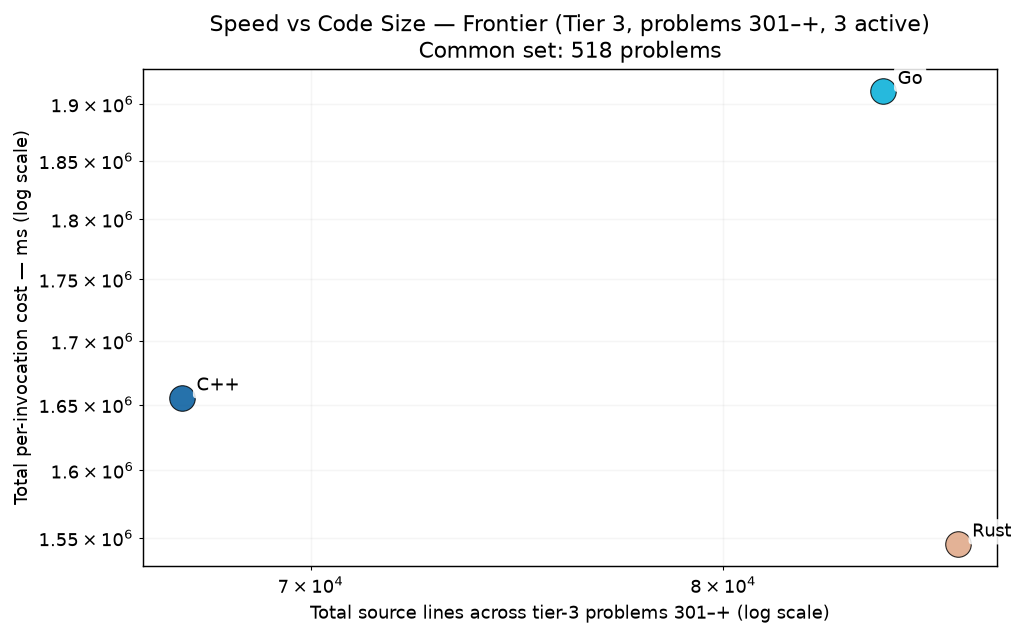
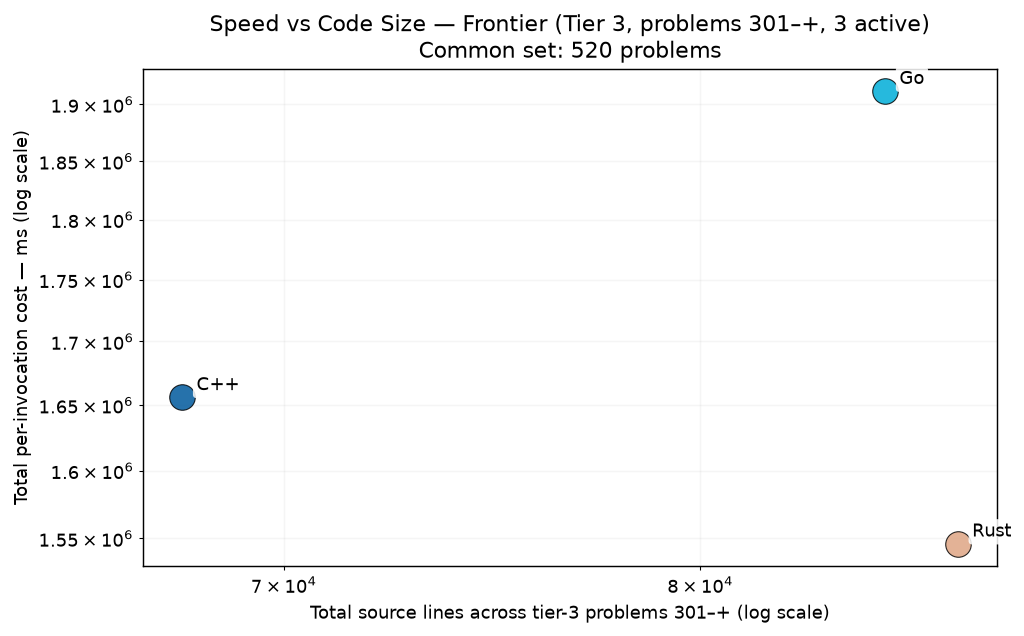
bench p0842,p0857 (L26 wave C)

diff --git a/RESULTS.md b/RESULTS.md
@@ -1,6 +1,6 @@
 # Project Euler — Cross-Language Benchmarks
 
-> **Scope: 4521 in-scope cells across 1007 problems × tiered languages — 3967 measured (87.7% coverage).**
+> **Scope: 4521 in-scope cells across 1007 problems × tiered languages — 3973 measured (87.9% coverage).**
 > The cross-language ranking below is computed over the **200-problem common set** (problems in 1-200 where every language has a passing measurement) — the apples-to-apples Foundation comparison surface.  Per-tier rankings and coverage detail appear further below.
 > Growing carefully — each new problem and language is audited for state-leak
 > safety, verified for answer correctness, and added only when it cleanly fits the
@@ -70,15 +70,15 @@ Same scatter as the Foundation chart, restricted to the tier-2 active languages 
 
 The frontier verification trio — C++, Go, Rust — on problems above 300. 3-way cross-language agreement is the verification protocol (strictly stronger than 2-way; see JOURNEY.md "Tier Reframing" episode for the p254 lesson that motivated it). Python and Zig are explicitly out of this tier — python's wall cost makes it impractical at level 5+, and zig's role caps at Tier 2.
 
-### Per-Invocation Cost (Common Set, 518 of ≤707 problems in scope)
+### Per-Invocation Cost (Common Set, 520 of ≤707 problems in scope)
 
 ![Per-Invocation Cost — Tier 3](charts/per_iter_total_tier3.png)
 
-| Rank | Language | Geomean (518-problem common set) | Total (sum) | Lines of code | vs Fastest |
+| Rank | Language | Geomean (520-problem common set) | Total (sum) | Lines of code | vs Fastest |
 |------|----------|--------------------:|------------:|--------------:|-----------:|
-| 1 | **Rust** | 66.62 ms | 1545.68 s | 86,308 | 1.00× |
-| 2 | **C++** | 69.35 ms | 1655.33 s | 67,148 | 1.04× |
-| 3 | **Go** | 83.96 ms | 1911.33 s | 84,252 | 1.26× |
+| 1 | **Rust** | 66.88 ms | 1546.05 s | 86,884 | 1.00× |
+| 2 | **C++** | 69.66 ms | 1655.95 s | 67,753 | 1.04× |
+| 3 | **Go** | 84.15 ms | 1911.73 s | 84,881 | 1.26× |
 
 ### Speed vs Code Size
 

diff --git a/per_problem/per_problem_0801-0900.md b/per_problem/per_problem_0801-0900.md
@@ -49,7 +49,7 @@ in tier-1 display order (native → managed → interpreted).
 | **p0839** | 124.46 ms | 111.08 ms | 120.46 ms |
 | **p0840** | 866.25 ms | 1.39 s | 1.17 s |
 | **p0841** | 105.88 ms | 49.99 ms | 8.84 s |
-| **p0842** | — | — | — |
+| **p0842** | 518.79 ms | 196.00 ms | 334.30 ms |
 | **p0843** | — | — | — |
 | **p0844** | 278.72 ms | 75.93 ms | 40.25 ms |
 | **p0845** | 478.9 µs | 2.58 ms | 4.33 ms |
@@ -64,7 +64,7 @@ in tier-1 display order (native → managed → interpreted).
 | **p0854** | 3.95 ms | 14.27 ms | 919.73 ms |
 | **p0855** | — | — | — |
 | **p0856** | — | 2.33 ms | — |
-| **p0857** | — | — | — |
+| **p0857** | 94.81 ms | 173.87 ms | 65.17 ms |
 | **p0858** | — | — | — |
 | **p0859** | — | — | — |
 | **p0860** | 128.91 ms | 920.77 ms | 2.18 s |
